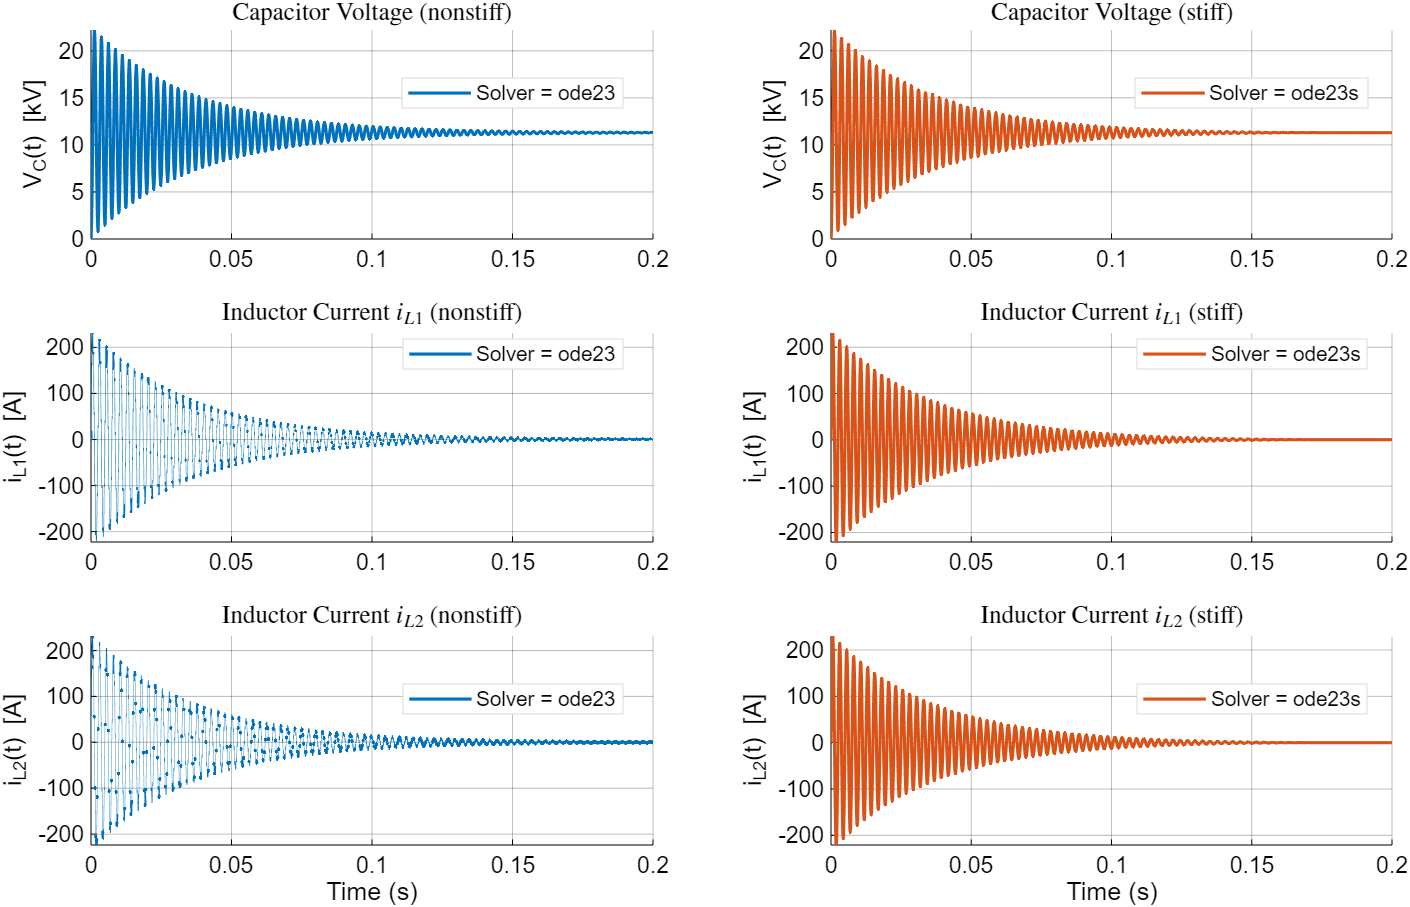
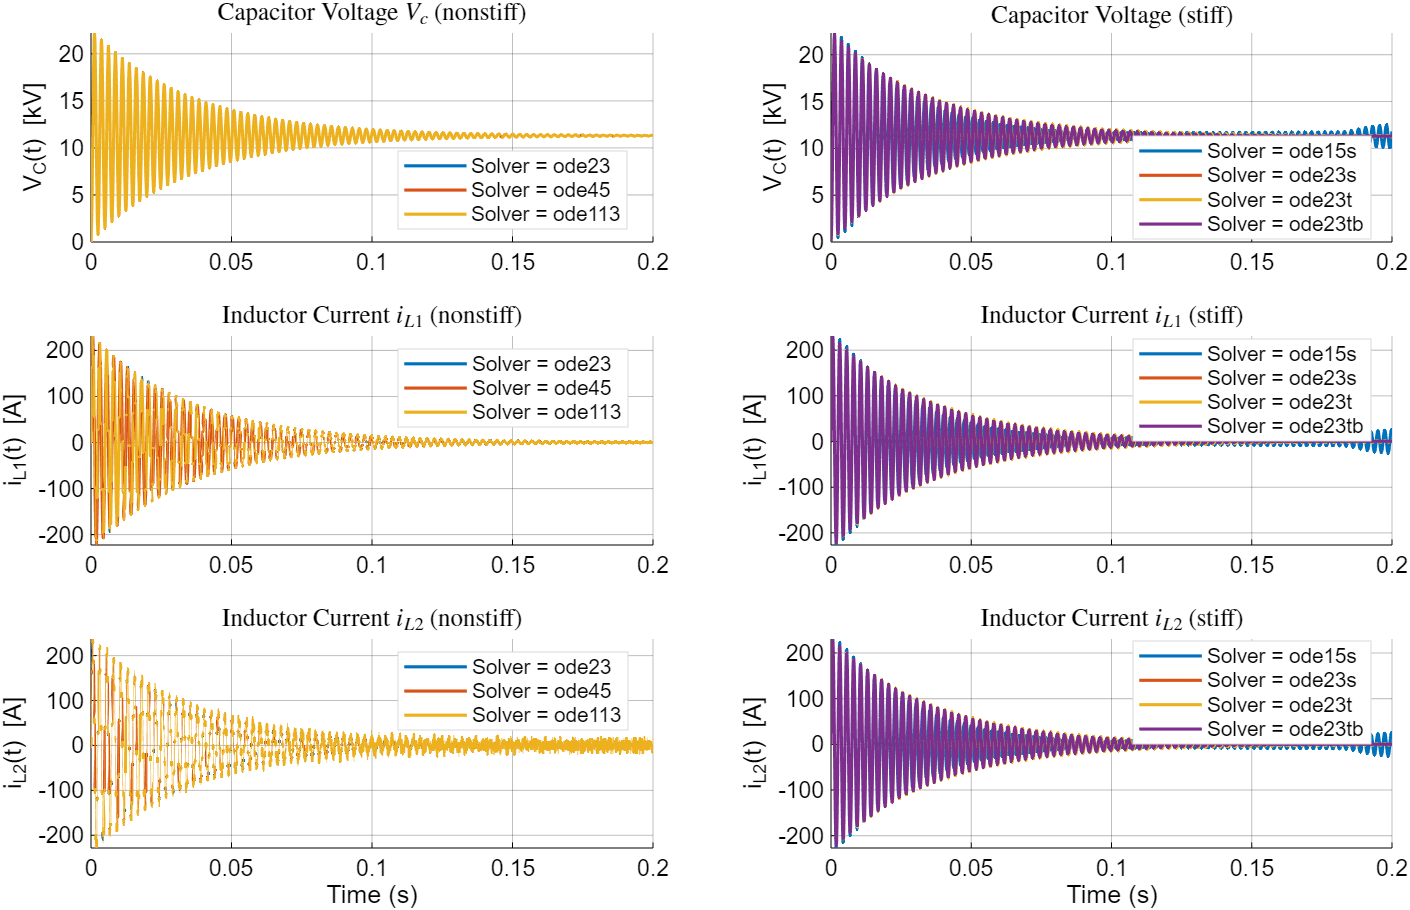
Wow 1e-7 is the hMax ode5, ode8 need (at least one of them)

diff --git a/ee582/hw01_q11.m b/ee582/hw01_q11.m
@@ -53,8 +53,8 @@ for k = 1:numel(varstep_solvers)
 end
 
 % Simulate fixed-step solvers for table only
-fixedstep_solvers = ["ode14x"];
-h_s_list = [1e-4];
+fixedstep_solvers = ["ode5", "ode8", "ode14x"];
+h_s_list = [1e-7, 1e-7, 1e-4];
 for k = 1:numel(fixedstep_solvers)
     solver = fixedstep_solvers(k);
     h_s = h_s_list(k);
@@ -85,7 +85,7 @@ for idx = 1:length(nonstiff_idx)
         'DisplayName', sprintf('Solver = %s', varstep_solvers(k)));
 end
 ylabel('V_C(t) [kV]', 'Color', 'k');
-title('Capacitor Voltage (nonstiff)', 'Interpreter', 'latex', 'Color', 'k');
+title('Capacitor Voltage $V_{c}$ (nonstiff)', 'Interpreter', 'latex', 'Color', 'k');
 set(gca, 'XColor', 'k', 'YColor', 'k', 'Color', 'w');
 grid on; grid minor; legend('show', 'TextColor', 'k', 'Location', 'best');
 hold off;
